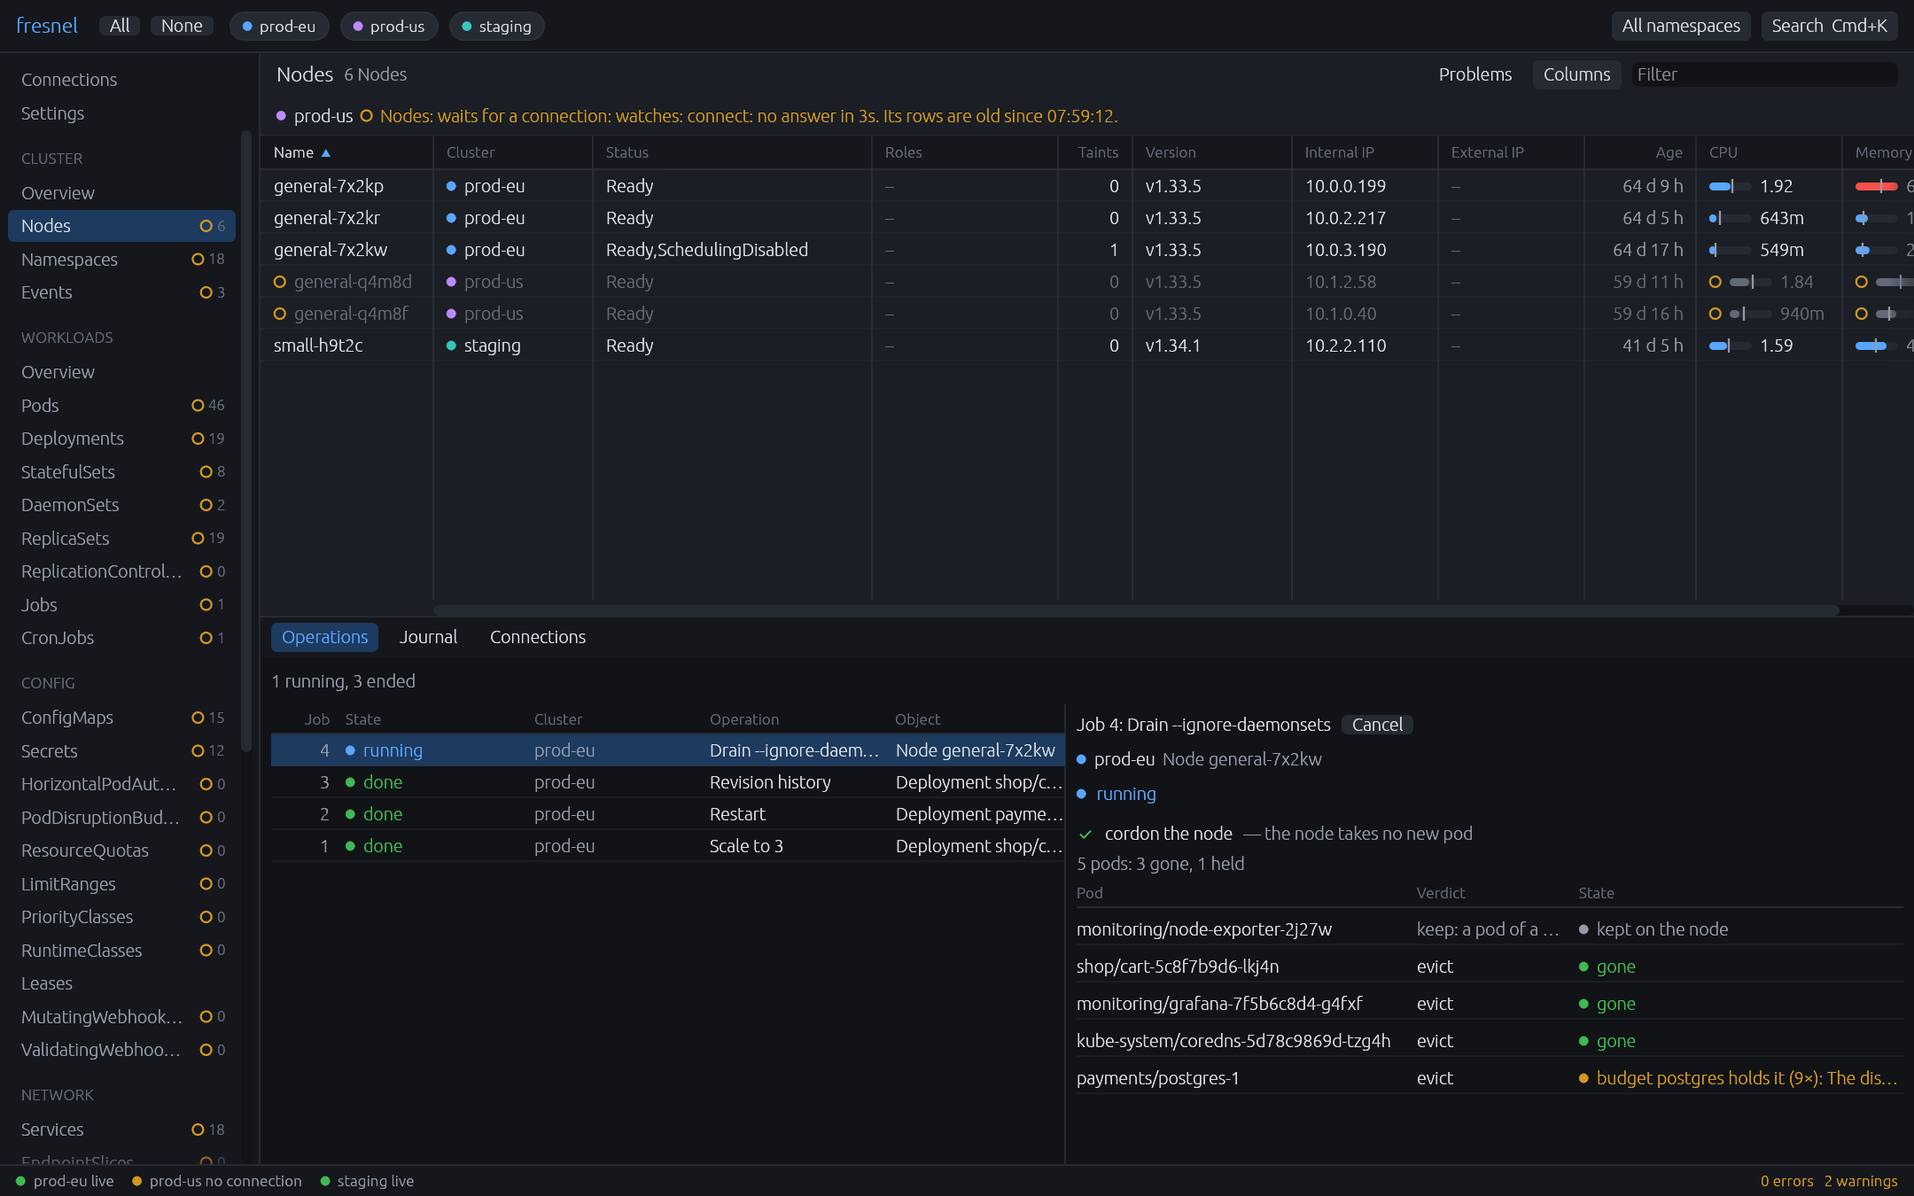
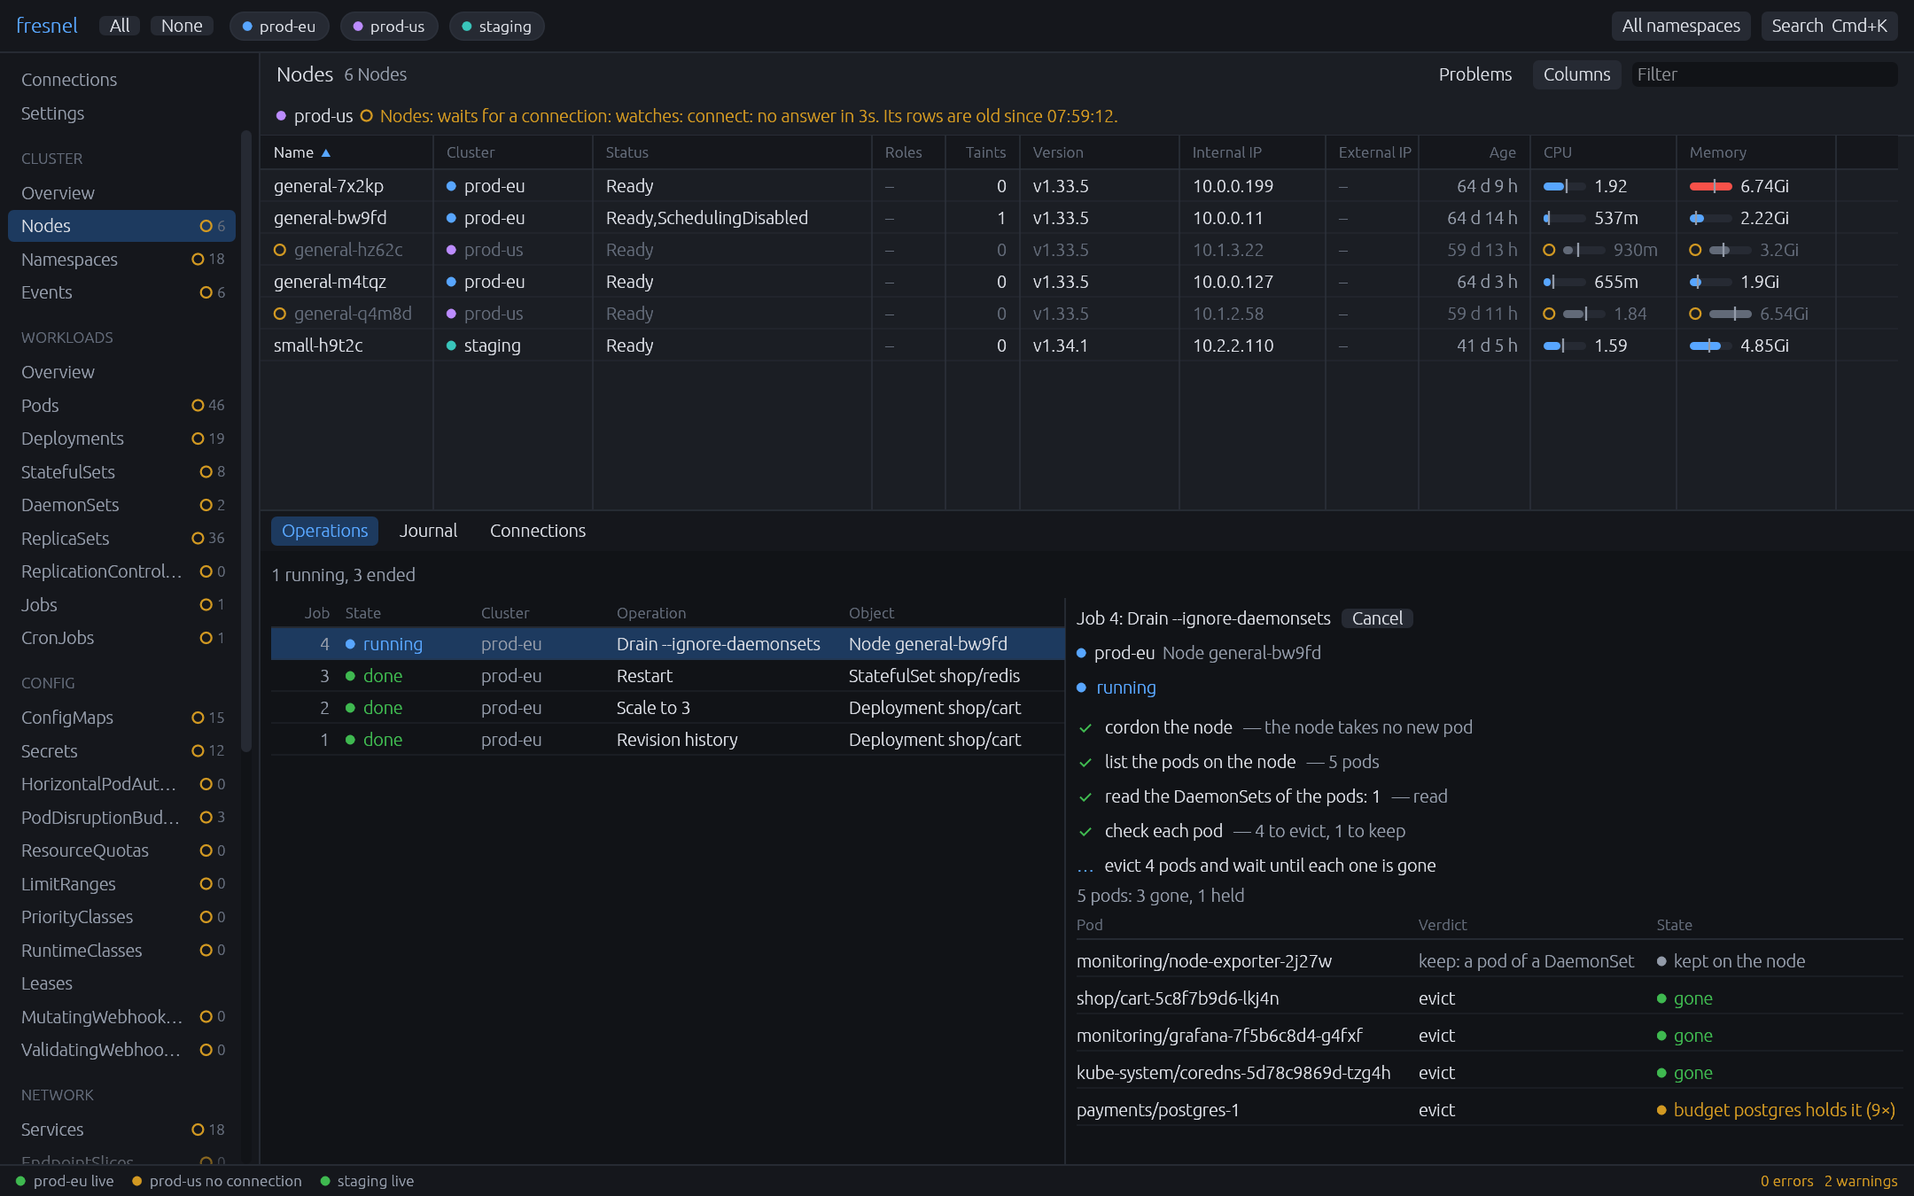
Show whole texts and whole rows in the showcase, and draw the pictures again
The drain has the steps of the drain of the core up to its evictions, the
Nodes table gives the room of the empty Roles and External IP columns to
Memory, and the done jobs have short objects. The rollback scrolls its
panel to the revisions, shows the read of the revisions in the Operations
tab and leaves the page bar its count; the secret scrolls its panel to a
whole row and its sidebar to the top. The dock is lower under the metrics
and the secret, and the overview gives the dock the room above the card of
prod-us, so the page starts with that card and the dock shows each channel.

The README shows the light picture at full width under the grid, with no
empty cell.

diff --git a/crates/fresnel-ui/tests/views/showcase/panels.rs b/crates/fresnel-ui/tests/views/showcase/panels.rs
@@ -19,10 +19,12 @@ use jiff::Timestamp;
 use k8s_openapi::api::core::v1::Pod;
 use serde_json::Value;
 
-use super::objects::{DAY, HOUR, MINUTE, RESOURCE_VERSION, hash, suffix};
-use super::world::{CHECKOUT, CHECKOUT_NEXT, PROD_EU, RC_REVISION, RC_ROLLOUT, STAGING, rollout};
+use super::objects::{RESOURCE_VERSION, hash, suffix};
+use super::world::{
+    CANDIDATE, CANDIDATE_AGE, CHECKOUT, CHECKOUT_NEXT, PROD_EU, RC_REVISION, RC_ROLLOUT, RELEASE_AGE, STAGING, rollout,
+};
 use super::{TO_THE_END, save, target, uid_of, window};
-use crate::fake::{Window, grow_dock, now, shows, until, widen_panel};
+use crate::fake::{Window, grow_dock, now, open_tab, shows, until, widen_panel};
 use crate::frame_time::wheel;
 use crate::keys::scene::{give, loaded, read};
 use crate::keys::{click, typed};
@@ -34,15 +36,58 @@ use crate::workloads::scene::{job, jobs, open};
 const LIMIT: Duration = Duration::from_secs(30);
 /// The revision of the release of checkout-api that prod runs.
 const RELEASE: u32 = RC_REVISION - 2;
-/// The panel of the metrics grows this much, near its widest, so the legend leaves each
-/// chart its newest samples and each title of a chart fits on one line.
-const METRICS_WIDENING: f32 = 200.0;
+/// The panel of the metrics grows this much, so the line of the values above each chart
+/// fits on one line and the bar of the page keeps its count.
+const METRICS_WIDENING: f32 = 170.0;
+/// The dock gets one row of its journal lower under the metrics, so both charts fit.
+const METRICS_DOCK: f32 = -24.0;
 /// The panel of the rollback grows this much, so the list of the revisions fits.
-const ROLLBACK_WIDENING: f32 = 100.0;
+const ROLLBACK_WIDENING: f32 = 60.0;
 /// The dock with the logs grows this much, so the log takes most of the window.
 const LOGS_DOCK: f32 = 250.0;
+/// The dock gets two rows of its journal lower under the save of a Secret: the journal
+/// tells nothing of the Secret.
+const SECRET_DOCK: f32 = -48.0;
 /// A place in the panel this far below its tabs, over its fields: the wheel there scrolls it.
 const BELOW_TABS: egui::Vec2 = egui::vec2(20.0, 100.0);
+/// The top of the scroll area of a panel is this far above its first section (the margin of
+/// `views/detail`).
+const PANEL_MARGIN: f32 = 10.0;
+
+/// The rects of the accessibility tree are in whole pixels: a label this near to an edge
+/// is not cut by it.
+const NEAR: f32 = 0.5;
+/// The most scrolls of `whole_rows_at_top`: a row that shows in full can bring the lower
+/// part of the row above it.
+const MOST_SCROLLS: usize = 4;
+
+/// The top of the first section of a panel at the top of its scroll.
+fn first_section(window: &Window) -> f32 {
+    window.get_by_label("METADATA").rect().top()
+}
+
+/// The tops of the labels of the panel that the top edge of its scroll area cuts.
+fn cut_at_top(window: &Window, first: f32) -> Vec<f32> {
+    let (edge, tabs) = (first - PANEL_MARGIN, window.get_by_role_and_label(Role::Button, "Overview").rect());
+    let labels = window.query_all_by_role(Role::Label).map(|label| label.rect());
+    let in_panel = |label: &egui::Rect| label.left() > tabs.left() - PANEL_MARGIN;
+    let cut = labels.filter(|label| in_panel(label) && label.top() < edge - NEAR && label.bottom() > edge + NEAR);
+    cut.map(|label| label.top()).collect()
+}
+
+/// Scrolls the panel back by the part of a row that the top of its scroll area cuts, so
+/// the row shows in full. `first` is the top of its first section at the top of its scroll.
+fn whole_rows_at_top(window: &mut Window, first: f32) {
+    for _ in 0..MOST_SCROLLS {
+        let Some(top) = cut_at_top(window, first).into_iter().reduce(f32::min) else {
+            return;
+        };
+        window.hover_at(window.get_by_role_and_label(Role::Button, "Overview").rect().left_bottom() + BELOW_TABS);
+        window.event(wheel(first - PANEL_MARGIN - top));
+        window.run();
+    }
+    assert_eq!(cut_at_top(window, first), Vec::<f32>::new(), "a row under the tabs of the panel");
+}
 
 /// Empties the filter of the page, so its table shows each row of the three clusters again;
 /// `count` is the count of the rows then. The row of the panel stays selected.
@@ -79,16 +124,17 @@ fn the_metrics_of_a_deployment() {
     let mut window = window(egui::Theme::Dark);
     checkout_of(&mut window, PROD_EU.name);
     widen_panel(&mut window, METRICS_WIDENING);
+    grow_dock(&mut window, METRICS_DOCK);
     window.get_by_role_and_label(Role::Button, "Metrics").click();
     until(&mut window, "the charts", |window| shows(window, "CPU chart") && shows(window, "Memory chart"));
     save(&mut window, "deployment-metrics");
 }
 
 /// One revision of checkout-api: its number, version, age, cause and ReplicaSet.
-fn revision(number: u32, (version, age, cause): (&str, u64, &str), replica_set: Option<String>) -> Revision {
+fn revision(number: u32, (version, age, cause): (&str, u64, &str), replica_set: String) -> Revision {
     Revision {
         number: number.into(),
-        name: replica_set.expect("the ReplicaSet of a Deployment"),
+        name: replica_set,
         created: Timestamp::try_from(now() - Duration::from_secs(age)).ok(),
         change_cause: Some(cause.to_owned()),
         images: vec![format!("shop/checkout-api:{version}")],
@@ -97,22 +143,23 @@ fn revision(number: u32, (version, age, cause): (&str, u64, &str), replica_set: 
     }
 }
 
-/// The revisions of checkout-api of staging from a read of the server, and the dialog of a
-/// rollback from the release candidate that crashes to the release that prod runs. The
-/// revision before the current one is the candidate before, so the two choices differ.
+/// The revisions of checkout-api of staging from a read of the server, as the Operations tab
+/// shows that read, and the dialog of a rollback from the release candidate that crashes to
+/// the release that prod runs. The revision before the current one is the candidate before,
+/// so the two choices differ.
 #[test]
 fn a_rollback_to_an_earlier_revision() {
     let mut window = window(egui::Theme::Dark);
-    let candidate = format!("checkout-api-{}", suffix(&["1.43.0-rc.0"], 9));
+    let set = |hash: &str| format!("checkout-api-{hash}");
     let current = rollout(&STAGING, &CHECKOUT_NEXT, RC_ROLLOUT);
     let revisions = vec![
-        revision(RELEASE, ("1.42.3", 3 * DAY + 2 * HOUR + 41 * MINUTE, "release 1.42.3"), CHECKOUT.replica_set()),
+        revision(RELEASE, ("1.42.3", RELEASE_AGE, "release 1.42.3"), CHECKOUT.replica_set().expect("a Deployment")),
+        revision(RC_REVISION - 1, ("1.43.0-rc.0", CANDIDATE_AGE, "candidate 1.43.0-rc.0"), set(CANDIDATE.0)),
         revision(
-            RC_REVISION - 1,
-            ("1.43.0-rc.0", DAY + 5 * HOUR + 9 * MINUTE, "candidate 1.43.0-rc.0"),
-            Some(candidate),
+            RC_REVISION,
+            ("1.43.0-rc.1", current, "candidate 1.43.0-rc.1"),
+            CHECKOUT_NEXT.replica_set().expect("a Deployment"),
         ),
-        revision(RC_REVISION, ("1.43.0-rc.1", current, "candidate 1.43.0-rc.1"), CHECKOUT_NEXT.replica_set()),
     ];
     let checkout = target(STAGING.name, Kind::Deployment, "shop", "checkout-api");
     let mut history = job(1, checkout, Operation::History, JobState::Done, &[]);
@@ -120,11 +167,17 @@ fn a_rollback_to_an_earlier_revision() {
     window.state_mut().view.jobs = jobs(vec![history], 0);
     checkout_of(&mut window, STAGING.name);
     widen_panel(&mut window, ROLLBACK_WIDENING);
-    // The panel scrolls to its end, where the list of the revisions is.
+    open_tab(&mut window, "Operations");
+    // The panel scrolls its list of the revisions to the place of its first section, so no
+    // row is half under its tabs.
+    let top = |window: &Window, heading: &str| window.get_by_label(heading).rect().top();
+    let first = first_section(&window);
     let tabs = window.get_by_role_and_label(Role::Button, "Overview").rect();
     window.hover_at(tabs.left_bottom() + BELOW_TABS);
-    window.event(wheel(TO_THE_END));
+    window.event(wheel(first - top(&window, "REVISIONS")));
     window.run();
+    assert!((top(&window, "REVISIONS") - first).abs() <= 1.0, "the revisions at the top of the panel");
+    assert_eq!(cut_at_top(&window, first), Vec::<f32>::new(), "a row under the tabs of the panel");
     let button = format!("Roll back to {RELEASE}…");
     let dock = window.get_by_role_and_label(Role::Button, "Operations").rect().top();
     let shown = window.get_by_role_and_label(Role::Button, &button).rect();
@@ -202,6 +255,14 @@ fn an_edit_of_the_keys_of_a_secret() {
     let mut window = window(egui::Theme::Dark);
     open(&mut window, "Secrets", "postgres-credentials");
     clear_filter(&mut window, "12 Secrets");
+    grow_dock(&mut window, SECRET_DOCK);
+    let first = first_section(&window);
+    // The open of the page scrolled the sidebar to put Secrets in its middle; it was there.
+    window.hover_at(window.get_by_role_and_label(Role::RadioButton, "Secrets").rect().center());
+    window.event(wheel(-TO_THE_END));
+    window.run();
+    let entry = |page: &str| window.get_by_role_and_label(Role::RadioButton, page).rect();
+    assert!(entry("Nodes").top() > entry("Settings").bottom(), "the sidebar at its top");
     let key = ObjectKey::new("payments", "postgres-credentials");
     let uid = uid_of(PROD_EU.name, Kind::Secret, "payments", "postgres-credentials");
     let target = Target { cluster: ClusterId::new(PROD_EU.name), kind: KeyKind::Secret, key, uid: uid.into() };
@@ -214,7 +275,11 @@ fn an_edit_of_the_keys_of_a_secret() {
     give(&mut window, PROD_EU.name, Some(loaded(read(&target, RESOURCE_VERSION, values))));
     click(&mut window, "Show the value of password");
     typed(&mut window, "Value of password", "example-password-2\n");
-    click(&mut window, "Save 1 key…");
+    whole_rows_at_top(&mut window, first);
+    // The button shows: a click with no scroll to it keeps the rows of the panel whole.
+    window.get_by_label("Save 1 key…").click();
+    window.run();
     click(&mut window, "Show the values");
+    assert_eq!(cut_at_top(&window, first), Vec::<f32>::new(), "a row under the tabs of the panel");
     save(&mut window, "secret-save");
 }

diff --git a/crates/fresnel-ui/tests/views/showcase/scenes.rs b/crates/fresnel-ui/tests/views/showcase/scenes.rs
@@ -4,6 +4,7 @@
 
 use std::sync::Arc;
 
+use egui::accesskit::Role;
 use egui::{Key, Modifiers};
 use egui_kittest::kittest::Queryable as _;
 use fresnel_core::app::JobView;
@@ -15,7 +16,7 @@ use k8s_openapi::api::core::v1::Pod;
 
 use super::objects::suffix;
 use super::world::{DRAINED, PROD_EU, PROD_US};
-use super::{TO_THE_END, save, target, window};
+use super::{MARGIN, TO_THE_END, save, target, window};
 use crate::fake::{Window, assert_dragged, grow_dock, move_edge, open_page, open_tab, until};
 use crate::frame_time::wheel;
 use crate::pods::resize::drag;
@@ -51,8 +52,9 @@ fn the_quick_search() {
     save(&mut window, "quick-search");
 }
 
-/// The drain of the node of prod-eu: a pod of a DaemonSet stays, three pods are gone, and
-/// the disruption budget of postgres holds postgres-1.
+/// The drain of the node of prod-eu, at its evictions: a pod of a DaemonSet stays, three pods
+/// are gone, and the disruption budget of postgres holds postgres-1. The steps have the texts
+/// of the drain of the core.
 fn drain(window: &Window) -> Arc<JobView> {
     // The pod of an app on the node of the drain.
     let on_node = |app: &str| {
@@ -66,7 +68,7 @@ fn drain(window: &Window) -> Arc<JobView> {
         let name = format!("{set}-{}", suffix(&[set, "evicted"], 5));
         DrainPod { key: ObjectKey::new(namespace, &name), verdict: Verdict::Evict(None), state: PodState::Gone }
     };
-    let budget = "The disruption budget postgres needs 1 healthy pods and has 1 currently";
+    let budget = "The disruption budget postgres needs 2 healthy pods and has 2 currently";
     let pods = [
         DrainPod {
             key: ObjectKey::new("monitoring", &on_node("node-exporter")),
@@ -83,7 +85,14 @@ fn drain(window: &Window) -> Arc<JobView> {
         },
     ];
     let options = DrainOptions { ignore_daemon_sets: true, ..DrainOptions::default() };
-    let steps = [("cordon the node", StepState::Done("the node takes no new pod".to_owned()))];
+    let done = |text: &str| StepState::Done(text.to_owned());
+    let steps = [
+        ("cordon the node", done("the node takes no new pod")),
+        ("list the pods on the node", done("5 pods")),
+        ("read the DaemonSets of the pods: 1", done("read")),
+        ("check each pod", done("4 to evict, 1 to keep")),
+        ("evict 4 pods and wait until each one is gone", StepState::Running),
+    ];
     let node = target(PROD_EU.name, Kind::Node, "", DRAINED);
     let mut drain = job(4, node, Operation::Drain(options), JobState::Pending, &steps);
     Arc::make_mut(&mut drain).report.outcome =
@@ -91,15 +100,19 @@ fn drain(window: &Window) -> Arc<JobView> {
     drain
 }
 
-/// The dock grows this much to show each pod of the drain.
-const DRAIN_DOCK: f32 = 200.0;
-/// The part of the chosen job grows this much to the left, over the room that the Object
-/// column of the job list does not need, so the names and the states of the pods fit.
+/// The dock grows this much to show each step and each pod of the drain.
+const DRAIN_DOCK: f32 = 280.0;
+/// The part of the chosen job grows this much to the left, so the names of the pods fit
+/// beside their verdicts and states. The job list keeps the room for its operations and
+/// objects.
 const DRAIN_WIDENING: f32 = 200.0;
 /// The Status column of the Nodes gets this much wider, so "Ready,SchedulingDisabled" fits.
-/// The Name column, wider than the names of the nodes, gives that room.
+/// The Name column, wider than the names of the nodes, gives that room, and the Roles and
+/// External IP columns, with no value, give the room of Memory.
 const STATUS_WIDENING: f32 = 60.0;
 const NAME_NARROWING: f32 = 90.0;
+const ROLES_NARROWING: f32 = 85.0;
+const EXTERNAL_NARROWING: f32 = 40.0;
 /// The part of the chosen job has a margin of this many points at its left, so its left
 /// edge is that far left of its text.
 const JOB_MARGIN: f32 = 8.0;
@@ -115,6 +128,16 @@ fn widen_job(window: &mut Window, by: f32) {
     assert_dragged(window, "the left of the chosen job", before - left(window), by);
 }
 
+/// Drags the edge at the right of a column title of the Nodes `by` points to the left. The
+/// drag of the Pod tests knows only the titles of the Pods.
+fn narrow_column(window: &mut Window, title: &str, by: f32) {
+    let width = |window: &Window| window.get_by_role_and_label(Role::Button, title).rect().width();
+    let (before, header) = (width(window), window.get_by_role_and_label(Role::Button, title).rect());
+    let edge = header.right_center();
+    move_edge(window, edge, edge - egui::vec2(by, 0.0));
+    assert_dragged(window, title, before - width(window), by);
+}
+
 /// The Nodes of the three clusters and the Operations tab with a drain that a disruption
 /// budget holds, after three jobs that are done.
 #[test]
@@ -123,15 +146,19 @@ fn a_node_drain_in_the_operations_tab() {
     open_page(&mut window, "Nodes");
     drag(&mut window, "Name", -NAME_NARROWING);
     drag(&mut window, "Status", STATUS_WIDENING);
+    narrow_column(&mut window, "Roles", ROLES_NARROWING);
+    narrow_column(&mut window, "External IP", EXTERNAL_NARROWING);
+    let memory = window.get_by_role_and_label(Role::Button, "Memory").rect();
+    assert!(memory.right() <= window.ctx.content_rect().right() - MARGIN, "Memory fits: {memory:?}");
     let done = |number, kind, (namespace, name), operation| {
         job(number, target(PROD_EU.name, kind, namespace, name), operation, JobState::Done, &[])
     };
     let mut core = window.state().view.clone();
     core.jobs = jobs(
         vec![
-            done(1, Kind::Deployment, ("shop", "cart"), Operation::Scale(3)),
-            done(2, Kind::Deployment, ("payments", "payments-worker"), Operation::Restart),
-            done(3, Kind::Deployment, ("shop", "checkout-api"), Operation::History),
+            done(1, Kind::Deployment, ("shop", "cart"), Operation::History),
+            done(2, Kind::Deployment, ("shop", "cart"), Operation::Scale(3)),
+            done(3, Kind::StatefulSet, ("shop", "redis"), Operation::Restart),
             drain(&window),
         ],
         0,
@@ -149,17 +176,31 @@ fn card_top(window: &Window, cluster: &str) -> f32 {
     window.get_by_label_contains(&format!("{cluster}.k8s.example")).rect().top()
 }
 
+/// The reason in the head of the card of prod-us of the overview.
+const PROD_US_REASON: &str = "watches: connect: no answer in 3s";
+
+/// Scrolls the page to its end: the middle of the window is on it.
+fn to_the_end(window: &mut Window) {
+    window.hover_at(window.ctx.content_rect().center());
+    window.event(wheel(TO_THE_END));
+    window.run();
+}
+
 /// The cluster overview of the three clusters in the light theme, at its end with the
 /// release that crashes on staging, and the connections of prod-us in the dock: each
-/// channel tries again after a pause.
+/// channel tries again after a pause. The dock takes the room above the card of prod-us,
+/// so the page starts with that card and the dock shows each channel.
 #[test]
 fn the_cluster_overview_in_the_light_theme() {
     let mut window = window(egui::Theme::Light);
     crate::overview::open(&mut window, "Cluster overview");
-    // The middle of the window is on the overview.
-    window.hover_at(window.ctx.content_rect().center());
-    window.event(wheel(TO_THE_END));
-    window.run();
+    let page_top = window.get_by_role_and_label(Role::Label, "Cluster overview").rect().top();
+    let card = |window: &Window| window.get_by_label(PROD_US_REASON).rect().top();
+    to_the_end(&mut window);
+    let rise = card(&window) - page_top;
+    grow_dock(&mut window, rise);
+    to_the_end(&mut window);
+    assert!((card(&window) - page_top).abs() <= 1.0, "the card of prod-us is at the top of the page");
     open_tab(&mut window, "Connections");
     // The list moves up by the card of prod-eu, so the card of prod-us is at its top.
     let first = card_top(&window, PROD_EU.name);

diff --git a/README.md b/README.md
@@ -16,9 +16,9 @@ The pods of three clusters. prod-us has no connection: its rows are old, and a n
 <td width="50%"><a href="docs/screenshots/rollback.png"><img src="docs/screenshots/rollback.png" alt="The rollback dialog"></a><br>The revisions of a Deployment whose new version crashes, and the dialog of a rollback.</td></tr>
 <tr><td width="50%"><a href="docs/screenshots/secret-save.png"><img src="docs/screenshots/secret-save.png" alt="The save dialog of a Secret"></a><br>The keys of a Secret: a save sends only the changed key, after its diff.</td>
 <td width="50%"><a href="docs/screenshots/node-drain.png"><img src="docs/screenshots/node-drain.png" alt="A node drain in the Operations tab"></a><br>A node drain as a job of the Operations tab, with the state of each pod.</td></tr>
-<tr><td width="50%"><a href="docs/screenshots/cluster-overview-light.png"><img src="docs/screenshots/cluster-overview-light.png" alt="The cluster overview"></a><br>The cluster overview in the light theme, and the connections of prod-us, which try again.</td>
-<td width="50%"></td></tr>
 </table>
+<p><a href="docs/screenshots/cluster-overview-light.png"><img src="docs/screenshots/cluster-overview-light.png" alt="The cluster overview"></a><br>
+The cluster overview in the light theme, and the connections of prod-us, which try again.</p>
 
 ## Status
 
